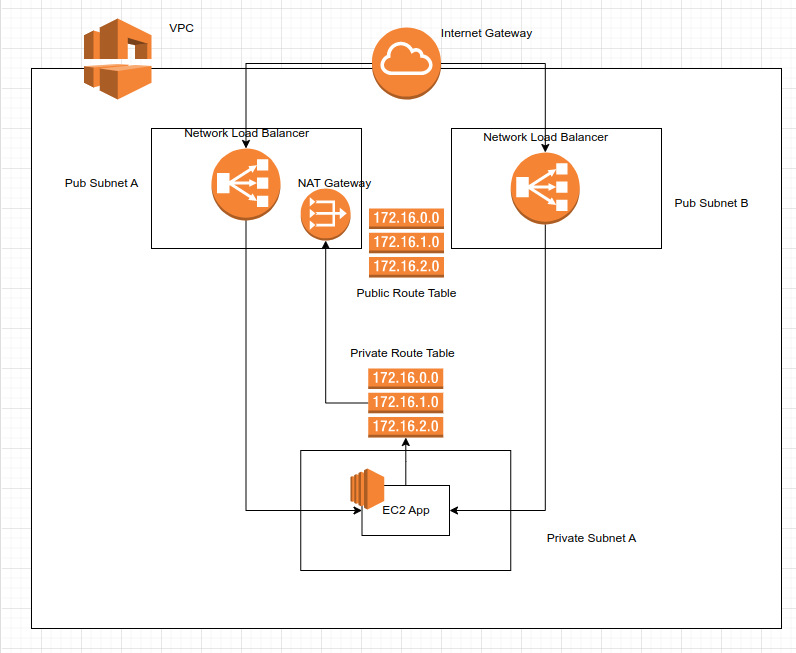
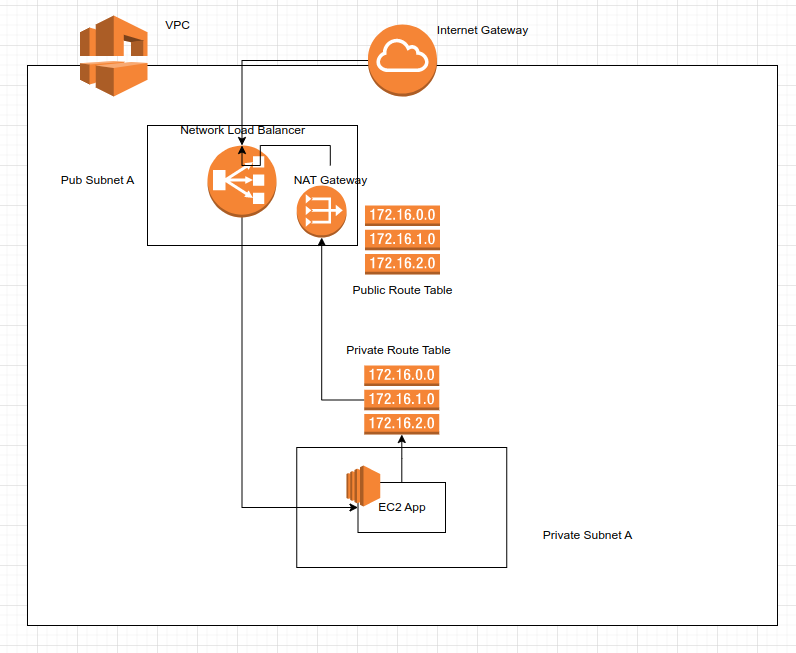
Simplifies network architecture

diff --git a/README.md b/README.md
@@ -59,13 +59,12 @@ firefox http://localhost:3000/?language=gurmukhi
 
 - [ ] Create VPC: `10.0.0.0/22`
 - [ ] Get Github actions to deploy your IaC
-- [ ] Create Pub subnets:
+- [ ] Create Pub subnet:
   - [ ] a: `10.0.0.0/24`
-  - [ ] b: `10.0.1.0/24`
 - [ ] Create Pvt Subnets:
   - [ ] a: `10.0.2.0/24`
 - [ ] Create IGW
-- [ ] Create Public Route Tables
+- [ ] Create Public Route Table
 - [ ] Create NAT gateway
 - [ ] Create Private Route Table
 
